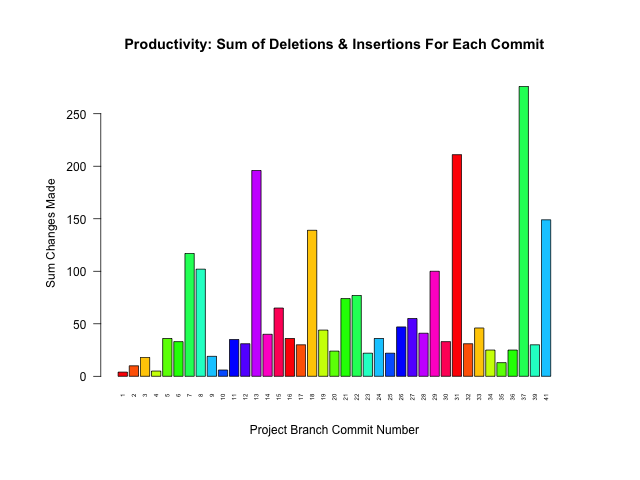
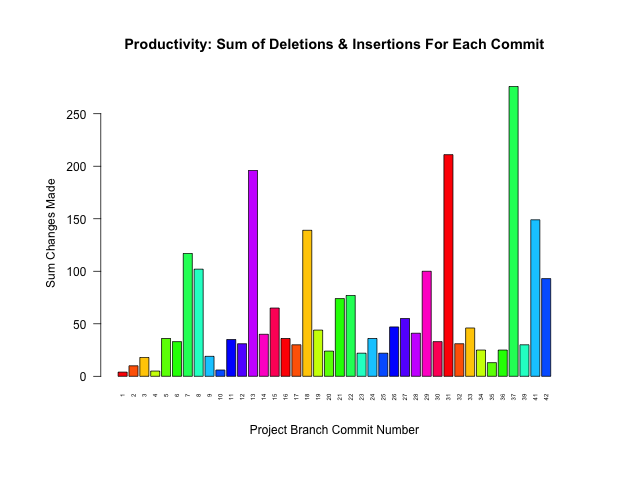
COMMIT #207

Changed region(s): [[0.1875, 0.1562, 0.875, 0.7812], [0.3125, 0.8125, 0.8438, 0.8438]]

diff --git a/README.md b/README.md
@@ -17,8 +17,8 @@ ProjectName::BranchName.data
 
 Project Name | Last Updated | # Commits | # Branches | Branches Merged
 :---|:---:|:---:|:---:|:---:
-[learn_some_C.Plus.Plus](https://github.com/pierremigeon/learn_some_C.Plus.Plus)                    |  2023-06-14  |  41   |  1  |  100%  (1/1)
-[commit_tracker](https://github.com/pierremigeon/commit_tracker)                                    |  2023-06-13  |  205  |  1  |  100%  (1/1)
+[learn_some_C.Plus.Plus](https://github.com/pierremigeon/learn_some_C.Plus.Plus)                    |  2023-06-14  |  42   |  1  |  100%  (1/1)
+[commit_tracker](https://github.com/pierremigeon/commit_tracker)                                    |  2023-06-14  |  206  |  1  |  100%  (1/1)
 [libft](https://github.com/pierremigeon/libft)                                                      |  2023-06-05  |  30   |  2  |  50%   (1/2)
 [ft_printf](https://github.com/pierremigeon/ft_printf)                                              |  2023-06-01  |  37   |  2  |  100%  (2/2)
 [minishell](https://github.com/pierremigeon/minishell)                                              |  2023-05-20  |  78   |  8  |  88%   (7/8)
